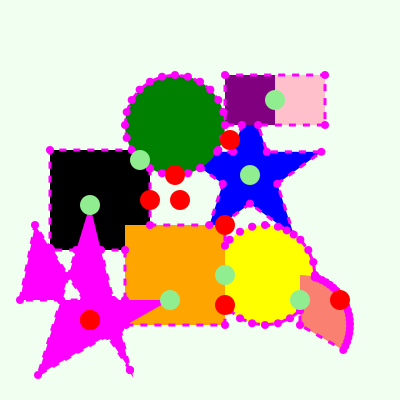
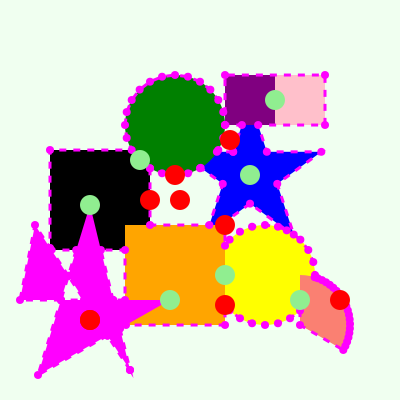
tox zip tests pass

diff --git a/cmu_graphics_helpers/test.py b/cmu_graphics_helpers/test.py
@@ -1,5 +1,5 @@
 import unittest
-import cmu_graphics_helpers
+from cmu_graphics_helpers import pygeo
 
 # simple: a square with no holes
 square = [[[(0.0, 0.0), (0.0, 1.0), (1.0, 1.0), (1.0, 0.0), (0.0, 0.0)]]]
@@ -245,18 +245,19 @@ result = [
 
 class TestUnion(unittest.TestCase):
     def test_union(self):
-        self.assertEqual(cmu_graphics_helpers.union([square]), square)
+        self.assertEqual(pygeo.union([square]), square)
 
-        unionResult = cmu_graphics_helpers.union(bigMulti)
+        unionResult = pygeo.union(bigMulti)
+        print(result)
         self.assertEqual(unionResult, result)
 
     def test_weird_args(self):
         with self.assertRaisesRegex(
             ValueError, 'must be given at least one MultiPolygon'
         ):
-            cmu_graphics_helpers.union([])
-        self.assertEqual(cmu_graphics_helpers.union([[]]), [])
-        self.assertEqual(cmu_graphics_helpers.union([[[]]]), [[[]]])
+            pygeo.union([])
+        self.assertEqual(pygeo.union([[]]), [])
+        self.assertEqual(pygeo.union([[[]]]), [[[]]])
 
         for value in (
             [[[[(1), (2), (3)]]]],
@@ -265,7 +266,7 @@ class TestUnion(unittest.TestCase):
         ):
             with self.assertRaises(TypeError):
                 print('testing', value)
-                cmu_graphics_helpers.union(value)
+                pygeo.union(value)
 
         for value in (
             [[[[(1,), (2,), (3,)]]]],
@@ -285,7 +286,7 @@ class TestUnion(unittest.TestCase):
         ):
             with self.assertRaises(ValueError):
                 print('testing', value)
-                cmu_graphics_helpers.union(value)
+                pygeo.union(value)
 
 
 if __name__ == '__main__':

diff --git a/cmu_graphics/shape_logic.py b/cmu_graphics/shape_logic.py
@@ -7,6 +7,7 @@ from cmu_graphics import utils
 from cmu_graphics.libs import cairo_loader as cairo
 from cmu_graphics.libs import pygame_loader as pygame
 from cmu_graphics.libs import cmu_graphics_helpers_loader as cmu_graphics_helpers
+from cmu_graphics_helpers import pygeo
 
 ### END ZIPFILE VERSION ###
 ### PYPI VERSION ###